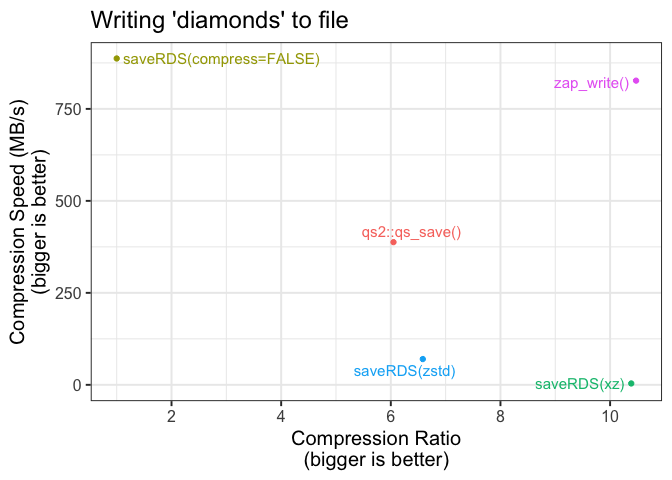
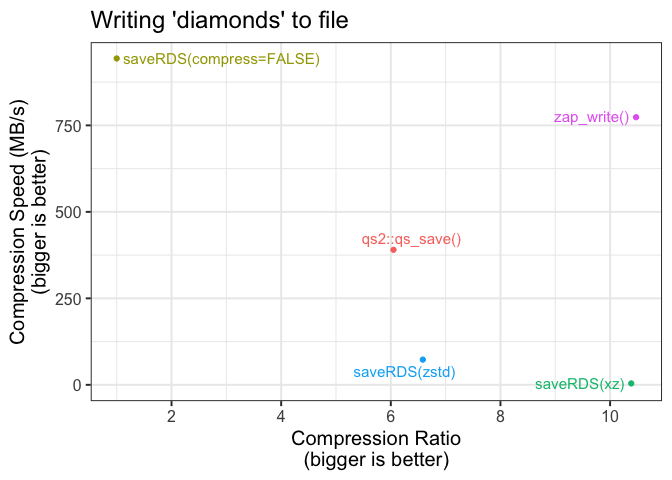
Fix objdf allocation bug. Add 'attr' to objdf

diff --git a/src/io-core.c b/src/io-core.c
@@ -142,12 +142,6 @@ void write_sexp(ctx_t *ctx, SEXP x_) {
     obj_count = (int)ctx->obj_count++;
   }
   
-  
-  //~~~~~~~~~~~~~~~~~~~~~~~~~~~~~~~~~~~~~~~~~~~~~~~~~~~~~~~~~~~~~~~~~~~~~~~~~~~
-  // Keep a tally of the types seen (for verbose tally output)
-  //~~~~~~~~~~~~~~~~~~~~~~~~~~~~~~~~~~~~~~~~~~~~~~~~~~~~~~~~~~~~~~~~~~~~~~~~~~~
-  ctx->tally_sexp[TYPEOF(x_) & 0x1f]++;
-  
   //~~~~~~~~~~~~~~~~~~~~~~~~~~~~~~~~~~~~~~~~~~~~~~~~~~~~~~~~~~~~~~~~~~~~~~~~~~~
   // For ALTREP just serialize the whole object
   //~~~~~~~~~~~~~~~~~~~~~~~~~~~~~~~~~~~~~~~~~~~~~~~~~~~~~~~~~~~~~~~~~~~~~~~~~~~
@@ -236,19 +230,24 @@ void write_sexp(ctx_t *ctx, SEXP x_) {
     write_attrs(ctx, x_);
   }
   
+  
+  //~~~~~~~~~~~~~~~~~~~~~~~~~~~~~~~~~~~~~~~~~~~~~~~~~~~~~~~~~~~~~~~~~~~~~~~~~~~
+  // Log the SEXP 
+  //~~~~~~~~~~~~~~~~~~~~~~~~~~~~~~~~~~~~~~~~~~~~~~~~~~~~~~~~~~~~~~~~~~~~~~~~~~~
   if (ctx->opts->verbosity & ZAP_VERBOSITY_OBJDF) {
     
     SEXP objdf_ = VECTOR_ELT(ctx->cache, ZAP_CACHE_TALLY);
-    
-    int end = (int)get_position(ctx->user_data);
-    objdf_add_row(objdf_, obj_count, ctx->depth, TYPEOF(x_), start, 
-                  end, ALTREP(x_), used_rserialize);
-    
-    ctx->depth--;
     if (ctx->obj_count >= ctx->obj_capacity) {
       df_grow(objdf_);
       ctx->obj_capacity *= 2;
     }
+    
+    
+    int end = (int)get_position(ctx->user_data);
+    objdf_add_row(objdf_, obj_count, ctx->depth, TYPEOF(x_), start,
+                  end, ALTREP(x_), used_rserialize, possibly_has_attrs);
+    
+    ctx->depth--;
   }
   
   

diff --git a/src/io-ctx.c b/src/io-ctx.c
@@ -383,23 +383,26 @@ ctx_t *create_ctx(opts_t *opts) {
     SEXP end_     = PROTECT(Rf_allocVector(INTSXP, (R_xlen_t)ctx->obj_capacity));
     SEXP altrep_  = PROTECT(Rf_allocVector(LGLSXP, (R_xlen_t)ctx->obj_capacity));
     SEXP rserial_ = PROTECT(Rf_allocVector(LGLSXP, (R_xlen_t)ctx->obj_capacity));
+    SEXP attrs_   = PROTECT(Rf_allocVector(LGLSXP, (R_xlen_t)ctx->obj_capacity));
     memset(INTEGER(depth_)  , 0, ctx->obj_capacity * sizeof(int));
     memset(INTEGER(type_)   , 0, ctx->obj_capacity * sizeof(int));
     memset(INTEGER(start_)  , 0, ctx->obj_capacity * sizeof(int));
     memset(INTEGER(end_)    , 0, ctx->obj_capacity * sizeof(int));
     memset(INTEGER(altrep_) , 0, ctx->obj_capacity * sizeof(int));
     memset(INTEGER(rserial_), 0, ctx->obj_capacity * sizeof(int));
+    memset(INTEGER(attrs_)  , 0, ctx->obj_capacity * sizeof(int));
     SEXP objs_ = PROTECT(create_named_list(
-      6, 
+      7, 
       "depth"     , depth_,
       "type"      , type_,
       "start"     , start_,
       "end"       , end_,
       "altrep"    , altrep_,
-      "rserialize", rserial_
+      "rserialize", rserial_,
+      "attrs"     , attrs_
     ));
     SET_VECTOR_ELT(ctx->cache, ZAP_CACHE_TALLY, objs_);
-    UNPROTECT(7);
+    UNPROTECT(8);
   }
   
   //~~~~~~~~~~~~~~~~~~~~~~~~~~~~~~~~~~~~~~~~~~~~~~~~~~~~~~~~~~~~~~~~~~~~~~~~~~~

diff --git a/src/utils-df.c b/src/utils-df.c
@@ -130,25 +130,28 @@ void df_truncate(SEXP df_, int nrows) {
 // Add a row to the specific "objs tally" data.frame
 //~~~~~~~~~~~~~~~~~~~~~~~~~~~~~~~~~~~~~~~~~~~~~~~~~~~~~~~~~~~~~~~~~~~~~~~~~~~
 void objdf_add_row(SEXP df_, int idx, int depth, int type, int start, 
-                   int end, int altrep, int rserialize) {
+                   int end, int altrep, int rserialize, int has_attrs) {
   
   SEXP col_ = VECTOR_ELT(df_, 0);
   INTEGER(col_)[idx] = depth;
   
   col_ = VECTOR_ELT(df_, 1);
-  INTEGER(col_)[idx] = type; 
-  
+  INTEGER(col_)[idx] = type;
+
   col_ = VECTOR_ELT(df_, 2);
-  INTEGER(col_)[idx] = start + 4 + 1;  // header length + convert to R idx
-  
+  INTEGER(col_)[idx] = start + 4L + 1L;  // header length + convert to R idx
+
   col_ = VECTOR_ELT(df_, 3);
   INTEGER(col_)[idx] = end + 4 + 1;  // header length + convert to R idx
-  
+
   col_ = VECTOR_ELT(df_, 4);
   INTEGER(col_)[idx] = altrep;
   
   col_ = VECTOR_ELT(df_, 5);
   INTEGER(col_)[idx] = rserialize;
+  
+  col_ = VECTOR_ELT(df_, 6);
+  INTEGER(col_)[idx] = has_attrs;
 }
 
 

diff --git a/src/io-ctx.h b/src/io-ctx.h
@@ -123,9 +123,6 @@ typedef struct {
   
   // Storage and tracking for verbose output
   int depth;            // tracking depth for tree printing
-  int tally_sexp  [32]; // Vanilla SEXP objects
-  int tally_altrep[32]; // ALTREP objects
-  int tally_serial[32]; // SEXP types which were serialized by the internal serialization
   size_t obj_count;  
   size_t obj_capacity;
   

diff --git a/src/utils-df.h b/src/utils-df.h
@@ -3,7 +3,7 @@ SEXP create_named_list(int n, ...);
 SEXP get_df_col(SEXP df_, const char *str);
 
 void objdf_add_row(SEXP df_, int idx, int depth, int type, int start, 
-                   int end, int altrep, int rserialize);
+                   int end, int altrep, int rserialize, int has_attrs);
 void df_grow(SEXP df_);
 void df_truncate(SEXP df_, int nrows);
 

diff --git a/README.md b/README.md
@@ -91,11 +91,11 @@ zap_write(diamonds, dst = "diamonds.zap", compress = "zstd")
 
 | expression              |      min |   median | itr/sec |    size |
 |:------------------------|---------:|---------:|--------:|--------:|
-| saveRDS(compress=FALSE) |   2.49ms |   3.59ms |   269.4 | 3452964 |
-| qs2::qs_save()          |   8.03ms |   8.45ms |   117.7 |  570855 |
-| zap_write()             |   3.49ms |   3.91ms |   251.1 |  329681 |
-| saveRDS(zstd)           |  44.86ms |  46.12ms |    21.3 |  524483 |
-| saveRDS(xz)             | 884.36ms | 884.36ms |     1.1 |  332468 |
+| saveRDS(compress=FALSE) |   2.39ms |   2.87ms |   286.5 | 3452964 |
+| qs2::qs_save()          |   8.02ms |   8.42ms |   118.6 |  570855 |
+| zap_write()             |   3.68ms |   4.16ms |   234.9 |  329681 |
+| saveRDS(zstd)           |  43.79ms |  44.64ms |    22.1 |  524483 |
+| saveRDS(xz)             | 815.38ms | 815.38ms |     1.2 |  332468 |
 
 Writing ‘diamonds’ to file
 
@@ -107,14 +107,14 @@ zap_read("diamonds.zap")
 
 <img src="man/figures/README-unnamed-chunk-6-1.png" width="100%" />
 
-| expression              |     min |  median | itr/sec |    size |
-|:------------------------|--------:|--------:|--------:|--------:|
-| readRDS(compress=FALSE) |  1.85ms |  2.06ms |   483.2 | 3452964 |
-| qs2::qs_read()          |  3.39ms |  3.62ms |   274.9 |  570855 |
-| zap_read()              |   2.3ms |  2.54ms |   389.6 |  329681 |
-| readRDS(gzip)           |  3.52ms |   3.7ms |   269.5 |  513651 |
-| readRDS(zstd)           |  4.73ms |  4.96ms |   200.8 |  524483 |
-| readRDS(xz)             | 15.29ms | 15.53ms |    64.5 |  332468 |
+| expression              |    min |  median | itr/sec |    size |
+|:------------------------|-------:|--------:|--------:|--------:|
+| readRDS(compress=FALSE) |  1.8ms |  1.93ms |   520.7 | 3452964 |
+| qs2::qs_read()          | 3.25ms |   3.4ms |   292.3 |  570855 |
+| zap_read()              | 1.97ms |  2.31ms |   436.6 |  329681 |
+| readRDS(gzip)           | 3.45ms |  3.56ms |   280.2 |  513651 |
+| readRDS(zstd)           | 4.54ms |  4.72ms |   211.4 |  524483 |
+| readRDS(xz)             |   15ms | 15.29ms |    65.5 |  332468 |
 
 Reading ‘diamonds’ from file
 
@@ -133,29 +133,29 @@ instead of the serialized object.
 
 ``` r
 zap_write(mtcars, verbosity = 64)
-#> # A tibble: 20 × 6
-#>    depth type    start   end altrep rserialize
-#>    <int> <fct>   <int> <int> <lgl>  <lgl>     
-#>  1     1 VECSXP      5  3512 FALSE  FALSE     
-#>  2     2 REALSXP     7   274 FALSE  FALSE     
-#>  3     2 REALSXP   274   541 FALSE  FALSE     
-#>  4     2 REALSXP   541   808 FALSE  FALSE     
-#>  5     2 REALSXP   808  1075 FALSE  FALSE     
-#>  6     2 REALSXP  1075  1342 FALSE  FALSE     
-#>  7     2 REALSXP  1342  1609 FALSE  FALSE     
-#>  8     2 REALSXP  1609  1876 FALSE  FALSE     
-#>  9     2 REALSXP  1876  2143 FALSE  FALSE     
-#> 10     2 REALSXP  2143  2410 FALSE  FALSE     
-#> 11     2 REALSXP  2410  2677 FALSE  FALSE     
-#> 12     2 REALSXP  2677  2944 FALSE  FALSE     
-#> 13     2 LISTSXP  2944  3489 FALSE  FALSE     
-#> 14     3 SYMSXP   2946  2956 FALSE  FALSE     
-#> 15     3 STRSXP   2956  3013 FALSE  FALSE     
-#> 16     3 SYMSXP   3013  3027 FALSE  FALSE     
-#> 17     3 STRSXP   3027  3454 FALSE  FALSE     
-#> 18     3 SYMSXP   3454  3464 FALSE  FALSE     
-#> 19     3 STRSXP   3464  3487 FALSE  FALSE     
-#> 20     2 STRSXP   3489  3512 FALSE  FALSE
+#> # A tibble: 20 × 7
+#>    depth type    start   end altrep rserialize attrs
+#>    <int> <fct>   <int> <int> <lgl>  <lgl>      <lgl>
+#>  1     1 VECSXP      5  3512 FALSE  FALSE      TRUE 
+#>  2     2 REALSXP     7   274 FALSE  FALSE      TRUE 
+#>  3     2 REALSXP   274   541 FALSE  FALSE      TRUE 
+#>  4     2 REALSXP   541   808 FALSE  FALSE      TRUE 
+#>  5     2 REALSXP   808  1075 FALSE  FALSE      TRUE 
+#>  6     2 REALSXP  1075  1342 FALSE  FALSE      TRUE 
+#>  7     2 REALSXP  1342  1609 FALSE  FALSE      TRUE 
+#>  8     2 REALSXP  1609  1876 FALSE  FALSE      TRUE 
+#>  9     2 REALSXP  1876  2143 FALSE  FALSE      TRUE 
+#> 10     2 REALSXP  2143  2410 FALSE  FALSE      TRUE 
+#> 11     2 REALSXP  2410  2677 FALSE  FALSE      TRUE 
+#> 12     2 REALSXP  2677  2944 FALSE  FALSE      TRUE 
+#> 13     2 LISTSXP  2944  3489 FALSE  FALSE      TRUE 
+#> 14     3 SYMSXP   2946  2956 FALSE  FALSE      TRUE 
+#> 15     3 STRSXP   2956  3013 FALSE  FALSE      TRUE 
+#> 16     3 SYMSXP   3013  3027 FALSE  FALSE      TRUE 
+#> 17     3 STRSXP   3027  3454 FALSE  FALSE      TRUE 
+#> 18     3 SYMSXP   3454  3464 FALSE  FALSE      TRUE 
+#> 19     3 STRSXP   3464  3487 FALSE  FALSE      TRUE 
+#> 20     2 STRSXP   3489  3512 FALSE  FALSE      TRUE
 ```
 
 # `zap` Technical details

diff --git a/NEWS.md b/NEWS.md
@@ -1,6 +1,7 @@
 
-# zap 0.1.1.9001
+# zap 0.1.1.9002
 
+* [9002] [bugfix] 2025-07-12 Fix objdf allocation bug
 * [9001] [enhance] 2025-07-12 return a data.structure detailing the objects
   which have been serialized when `verbosity = 64` set
 * [9000] [refactor] 2025-07-12 tidy VECSXP to separate functions for 'raw'
